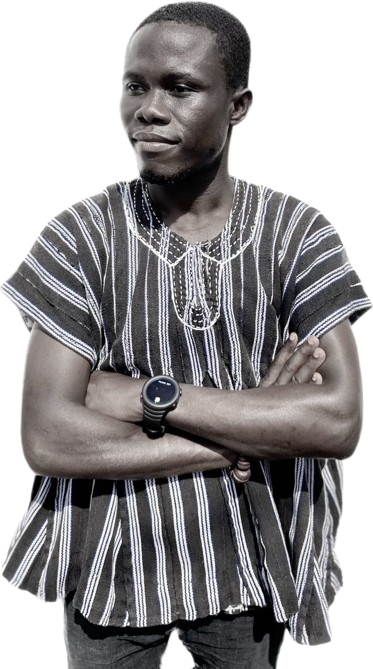
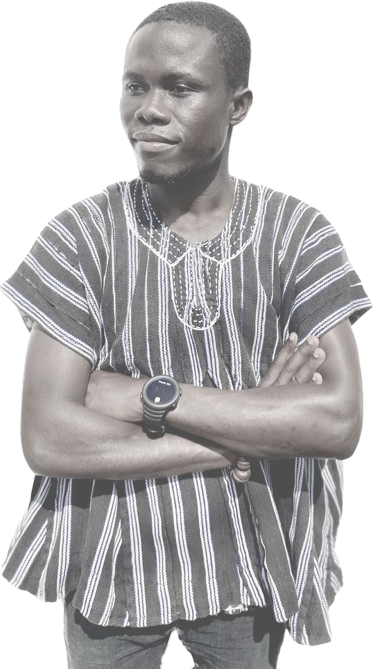
Changed Image opacity

diff --git a/assets/css/style.css b/assets/css/style.css
@@ -13,12 +13,12 @@ body {
   background-color: #040404;
   color: #fff;
   position: relative;
-  background: transparent;
+
 }
 body::before {
   content: "";
   position: fixed;
-  background: #040404 url("../img/max-bg-1.png") top right no-repeat;
+  background-image:url("../img/max-bg-1.png") ;
   /* background-size:25%; */
 background-size: contain;
   background-repeat: no-repeat;
